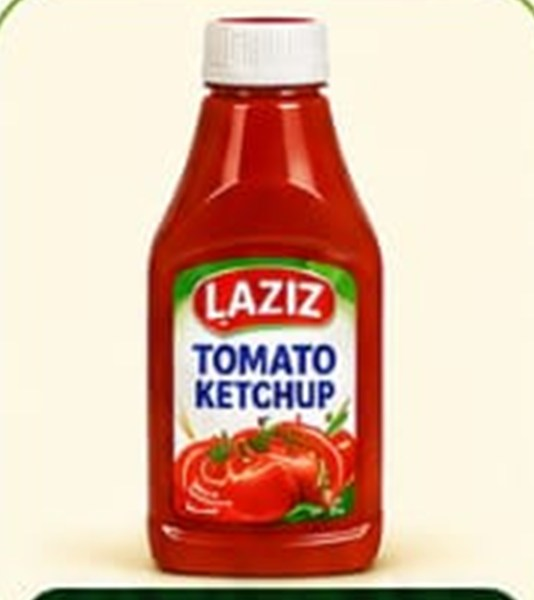
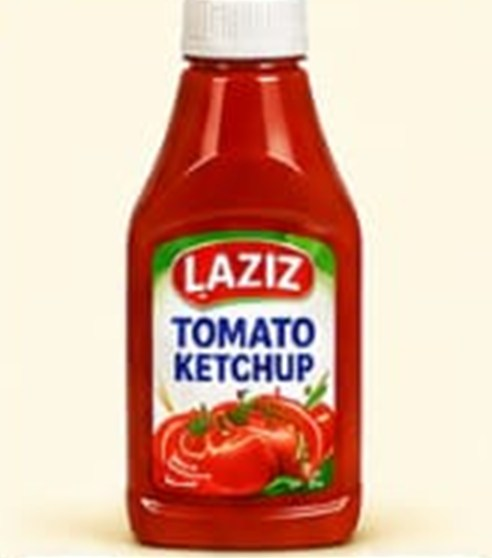
Fix mobile card layout and tighten flyer crops
- Give the size dropdown room for the arrow, so a long option such as
  Seasoning powder no longer collides with it on a narrow phone
- Shrink card button padding so Order now stays on one line
- Pull the product crops in by a few pixels: the previous bounds caught
  the rounded green border of the neighbouring flyer card

Changed region(s): [[0.061, 0.0, 0.9756, 1.0], [0.0, 0.0, 0.061, 0.0609], [0.9756, 0.0, 1.0, 0.0305]]

diff --git a/styles.css b/styles.css
@@ -597,10 +597,14 @@ a { color: inherit; }
   color: var(--muted);
 }
 
+/* The right padding leaves room for the dropdown arrow the browser draws
+   inside the box. Without it a long option like "Seasoning powder" runs
+   straight into the arrow on a narrow phone. */
 .card__size select {
   flex: 1;
   min-width: 0;
-  padding: 9px 11px;
+  text-overflow: ellipsis;
+  padding: 9px 28px 9px 11px;
   border: 1.5px solid var(--sand);
   border-radius: var(--radius-sm);
   background: var(--cream);
@@ -1037,6 +1041,10 @@ a { color: inherit; }
   .card__name { font-size: .93rem; }
   .card__blurb { display: none; }
   .card__size > span { display: none; }
+  .card__size select { padding: 8px 24px 8px 9px; font-size: .83rem; }
+
+  /* Tighter so "Order now" stays on one line in a two column grid. */
+  .card__actions .btn { padding: 10px 6px; font-size: .8rem; gap: 5px; }
   .panel { padding: 30px 24px; }
   .trust__item { padding: 16px 10px; gap: 10px; }
   .trust__icon { width: 34px; height: 34px; font-size: .9rem; }
